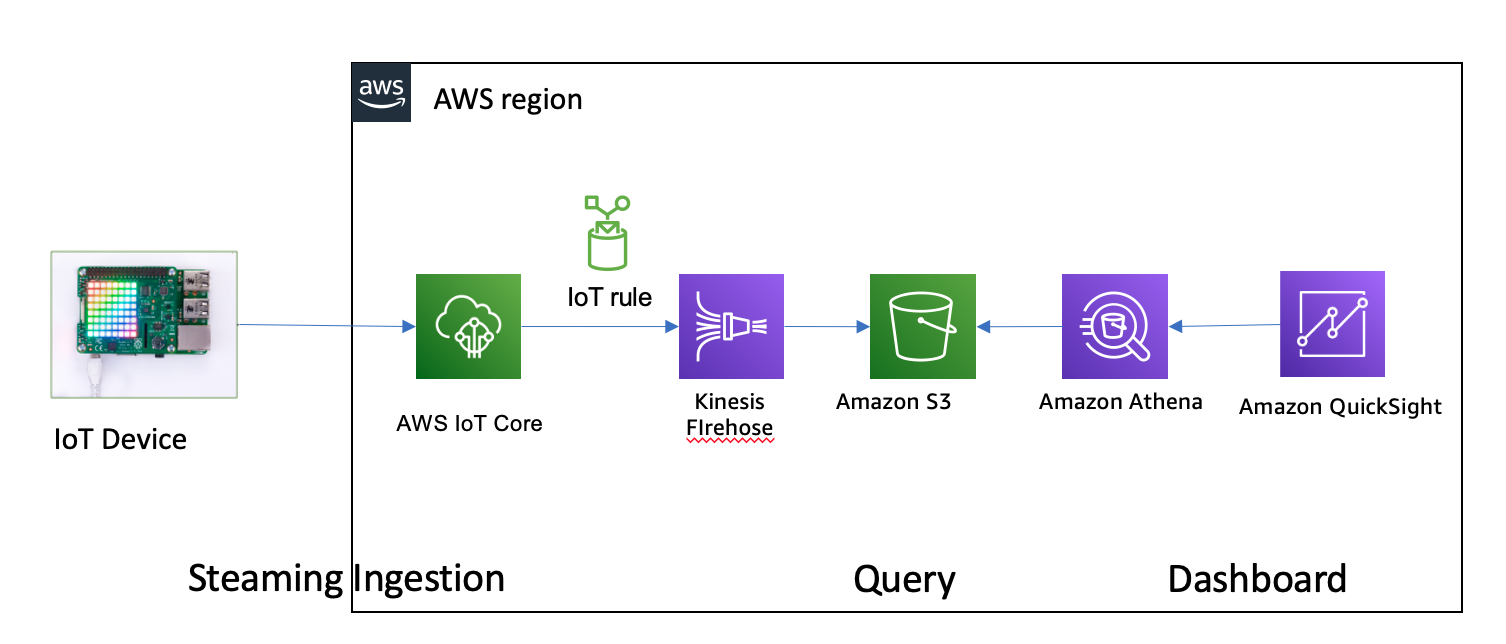
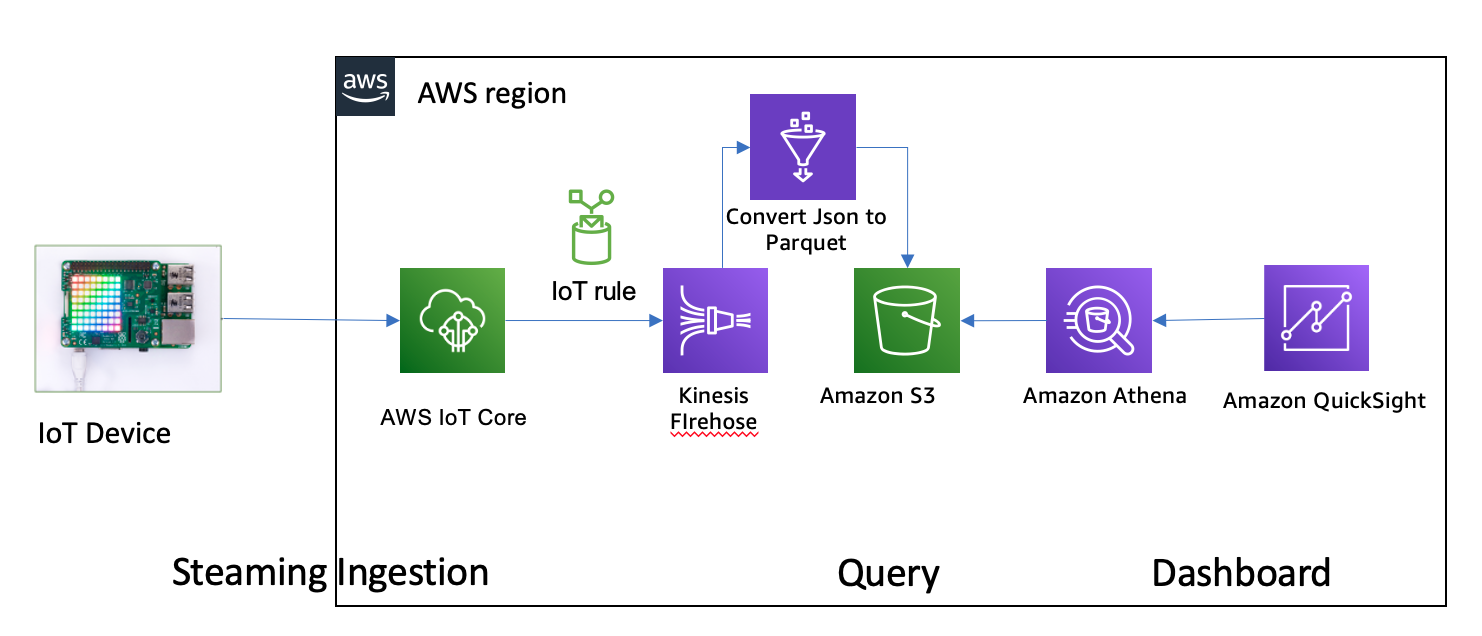
IoT-Athena-QuickSight update glue

diff --git a/IoT-Athena-QuickSight.md b/IoT-Athena-QuickSight.md
@@ -12,6 +12,10 @@ Archiecture for IoT-Athena-QuickSight
 - Kinesis Firehose Delivery Steam Name: `IoT-to-BI-Example`
 - S3 Bucket: `your bucket`
 - S3 Prefix: `iot_to_bi_example/`
+- Convert record format from json to Glue automatically
+![iot-athen-quicksight-convert-glue](media/iot-athen-quicksight-convert-glue.png)
+- Buffer conditions: `64 MiB or 300 seconds`
+
 
 ## Configuring the AWS IoT rule
 - Name: `Iot_to_bi_demoRule`
@@ -36,24 +40,24 @@ python hearrate.py
 ## Configuring Athena
 1. Create a table using the following query
 ```sql
-CREATE EXTERNAL TABLE heartrate_iot_data (
+CREATE EXTERNAL TABLE `heartrate_iot_data`(
     heartRate int,
     userId string,
     rateType string,
     dateTime timestamp)
-ROW FORMAT  serde 'org.apache.hive.hcatalog.data.JsonSerDe'
-with serdeproperties( 'ignore.malformed.json' = 'true' )
-LOCATION 's3://<CREATED-BUCKET>/iot_to_bi_example/'
+ROW FORMAT SERDE 
+  'org.apache.hadoop.hive.ql.io.parquet.serde.ParquetHiveSerDe' 
+LOCATION 's3://<CREATED-BUCKET>/iot_to_bi_example/';
+
 ```
 
 2. Create the query
 ```sql
-# count the user heart rate data
-SELECT userid, COUNT(userid) FROM heartrate_iot_data GROUP BY userid
+# preview data
+SELECT userid, rateType, heartRate, dateTime FROM heartrate_iot_data limit 20;
 
-# Create View
-CREATE OR REPLACE VIEW "hearrate_iot_info" AS
-SELECT userid, rateType, COUNT(userid) as record_count FROM heartrate_iot_data GROUP BY userid, rateType
+# count the user heart rate data
+SELECT userid, rateType， COUNT(userid) FROM heartrate_iot_data GROUP BY userid，rateType
 ```
 
 ## Analyzing the data on QuickSight
